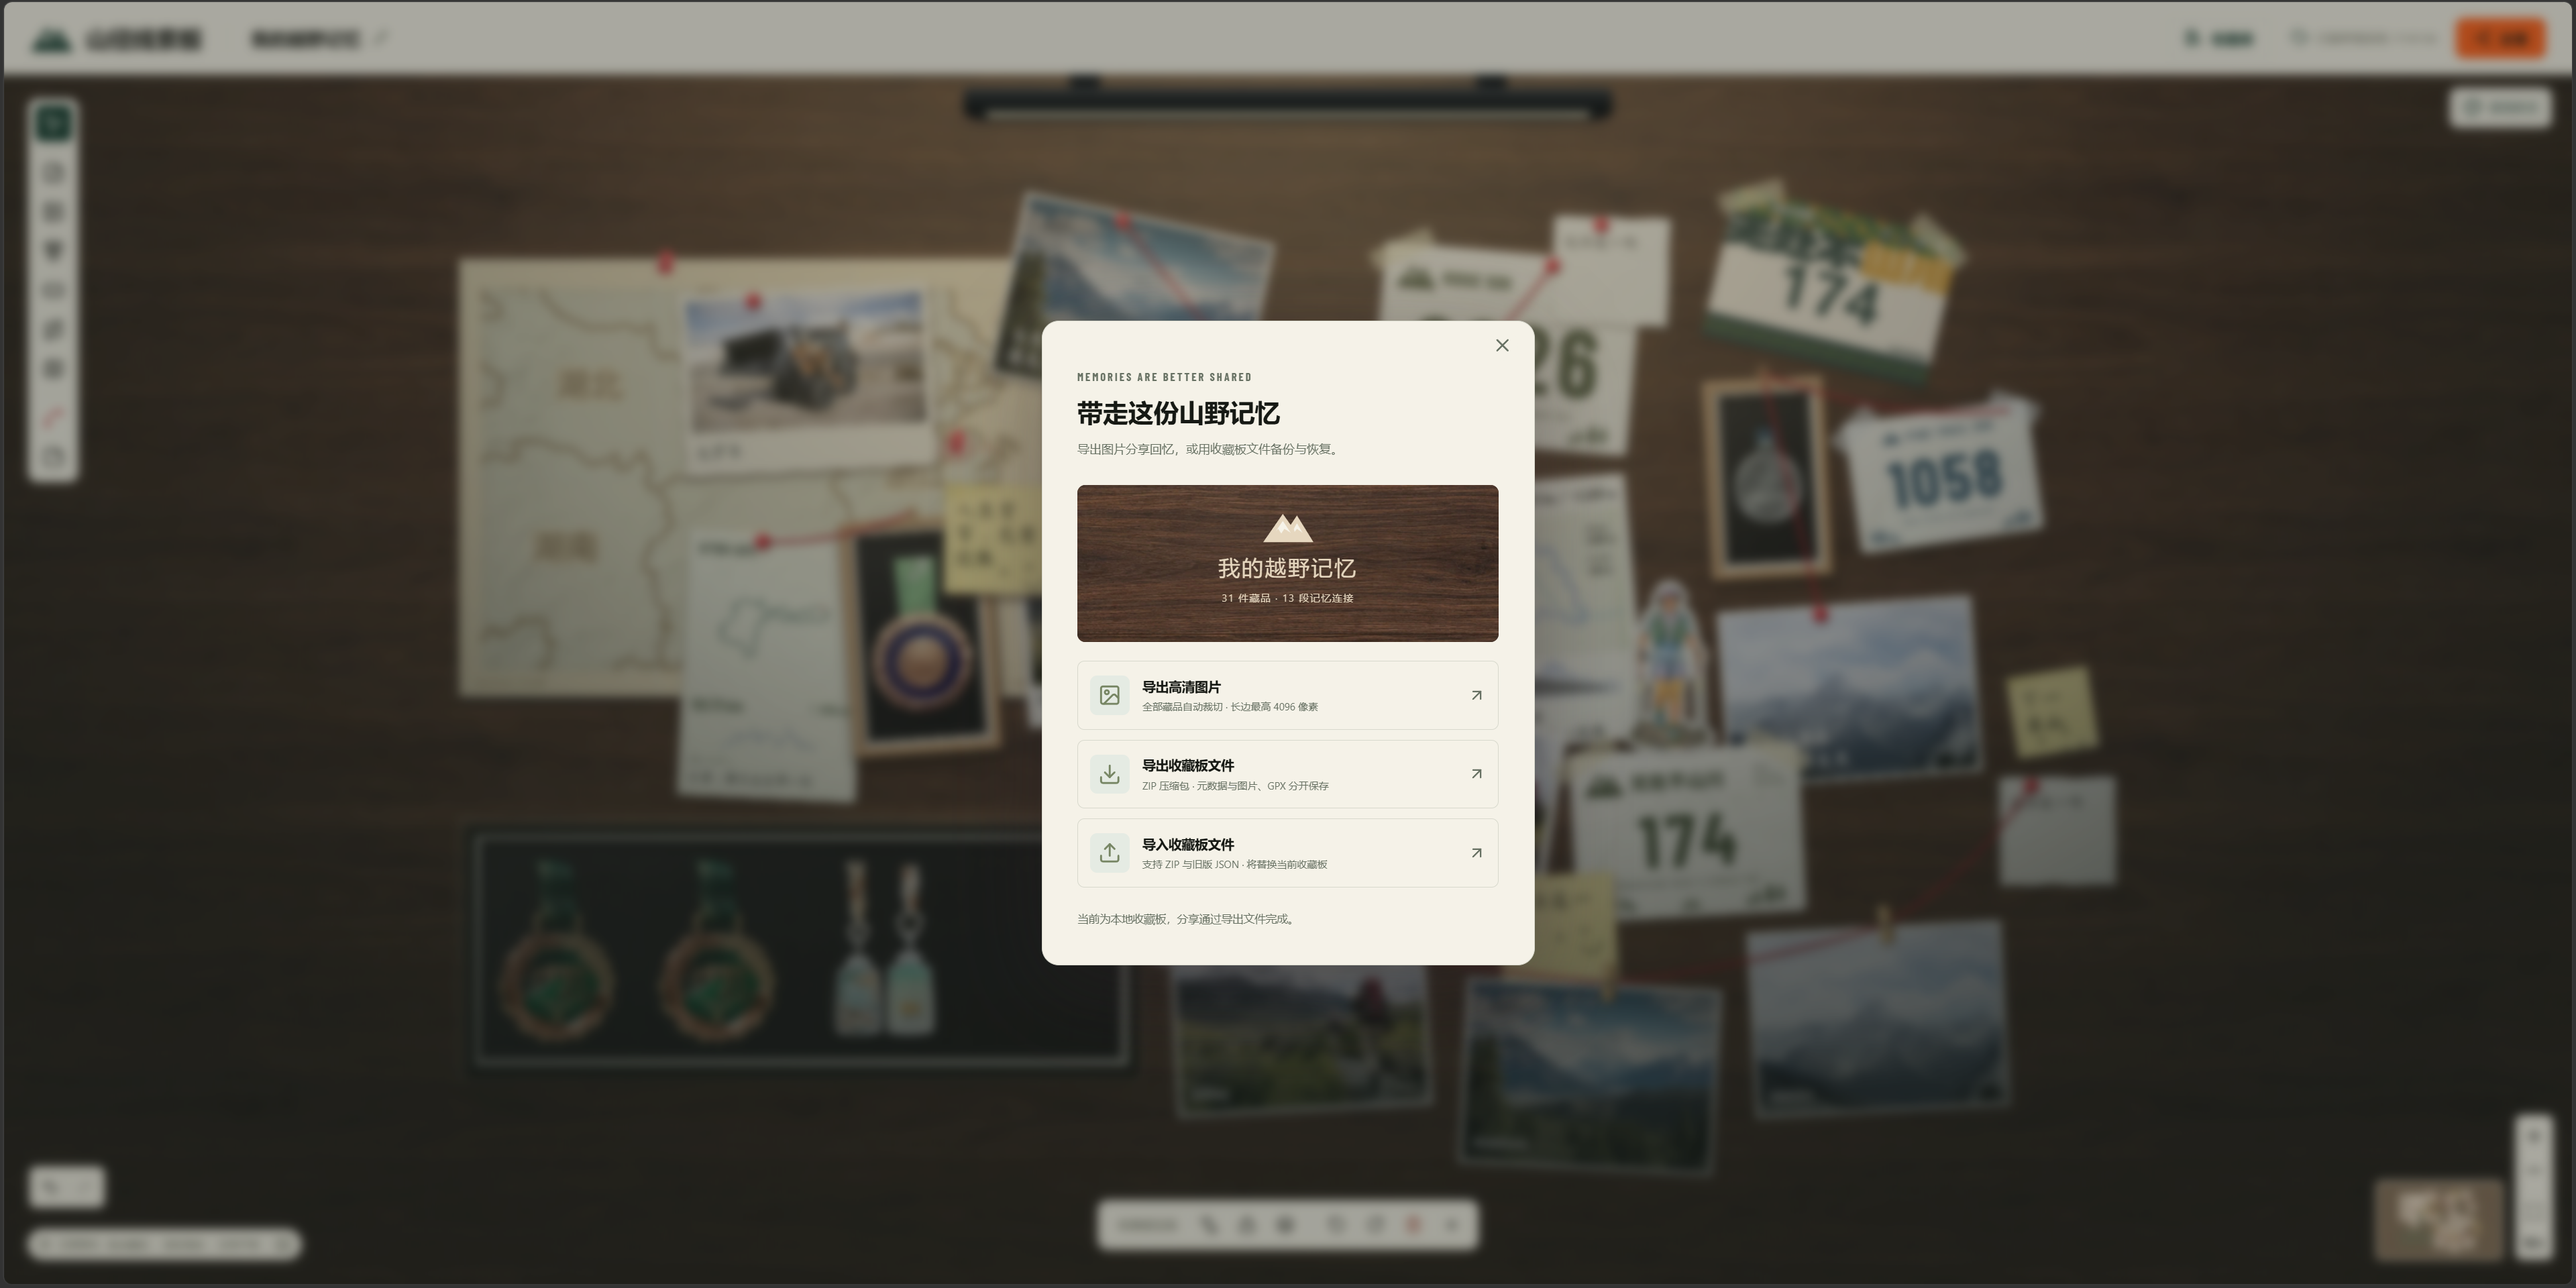
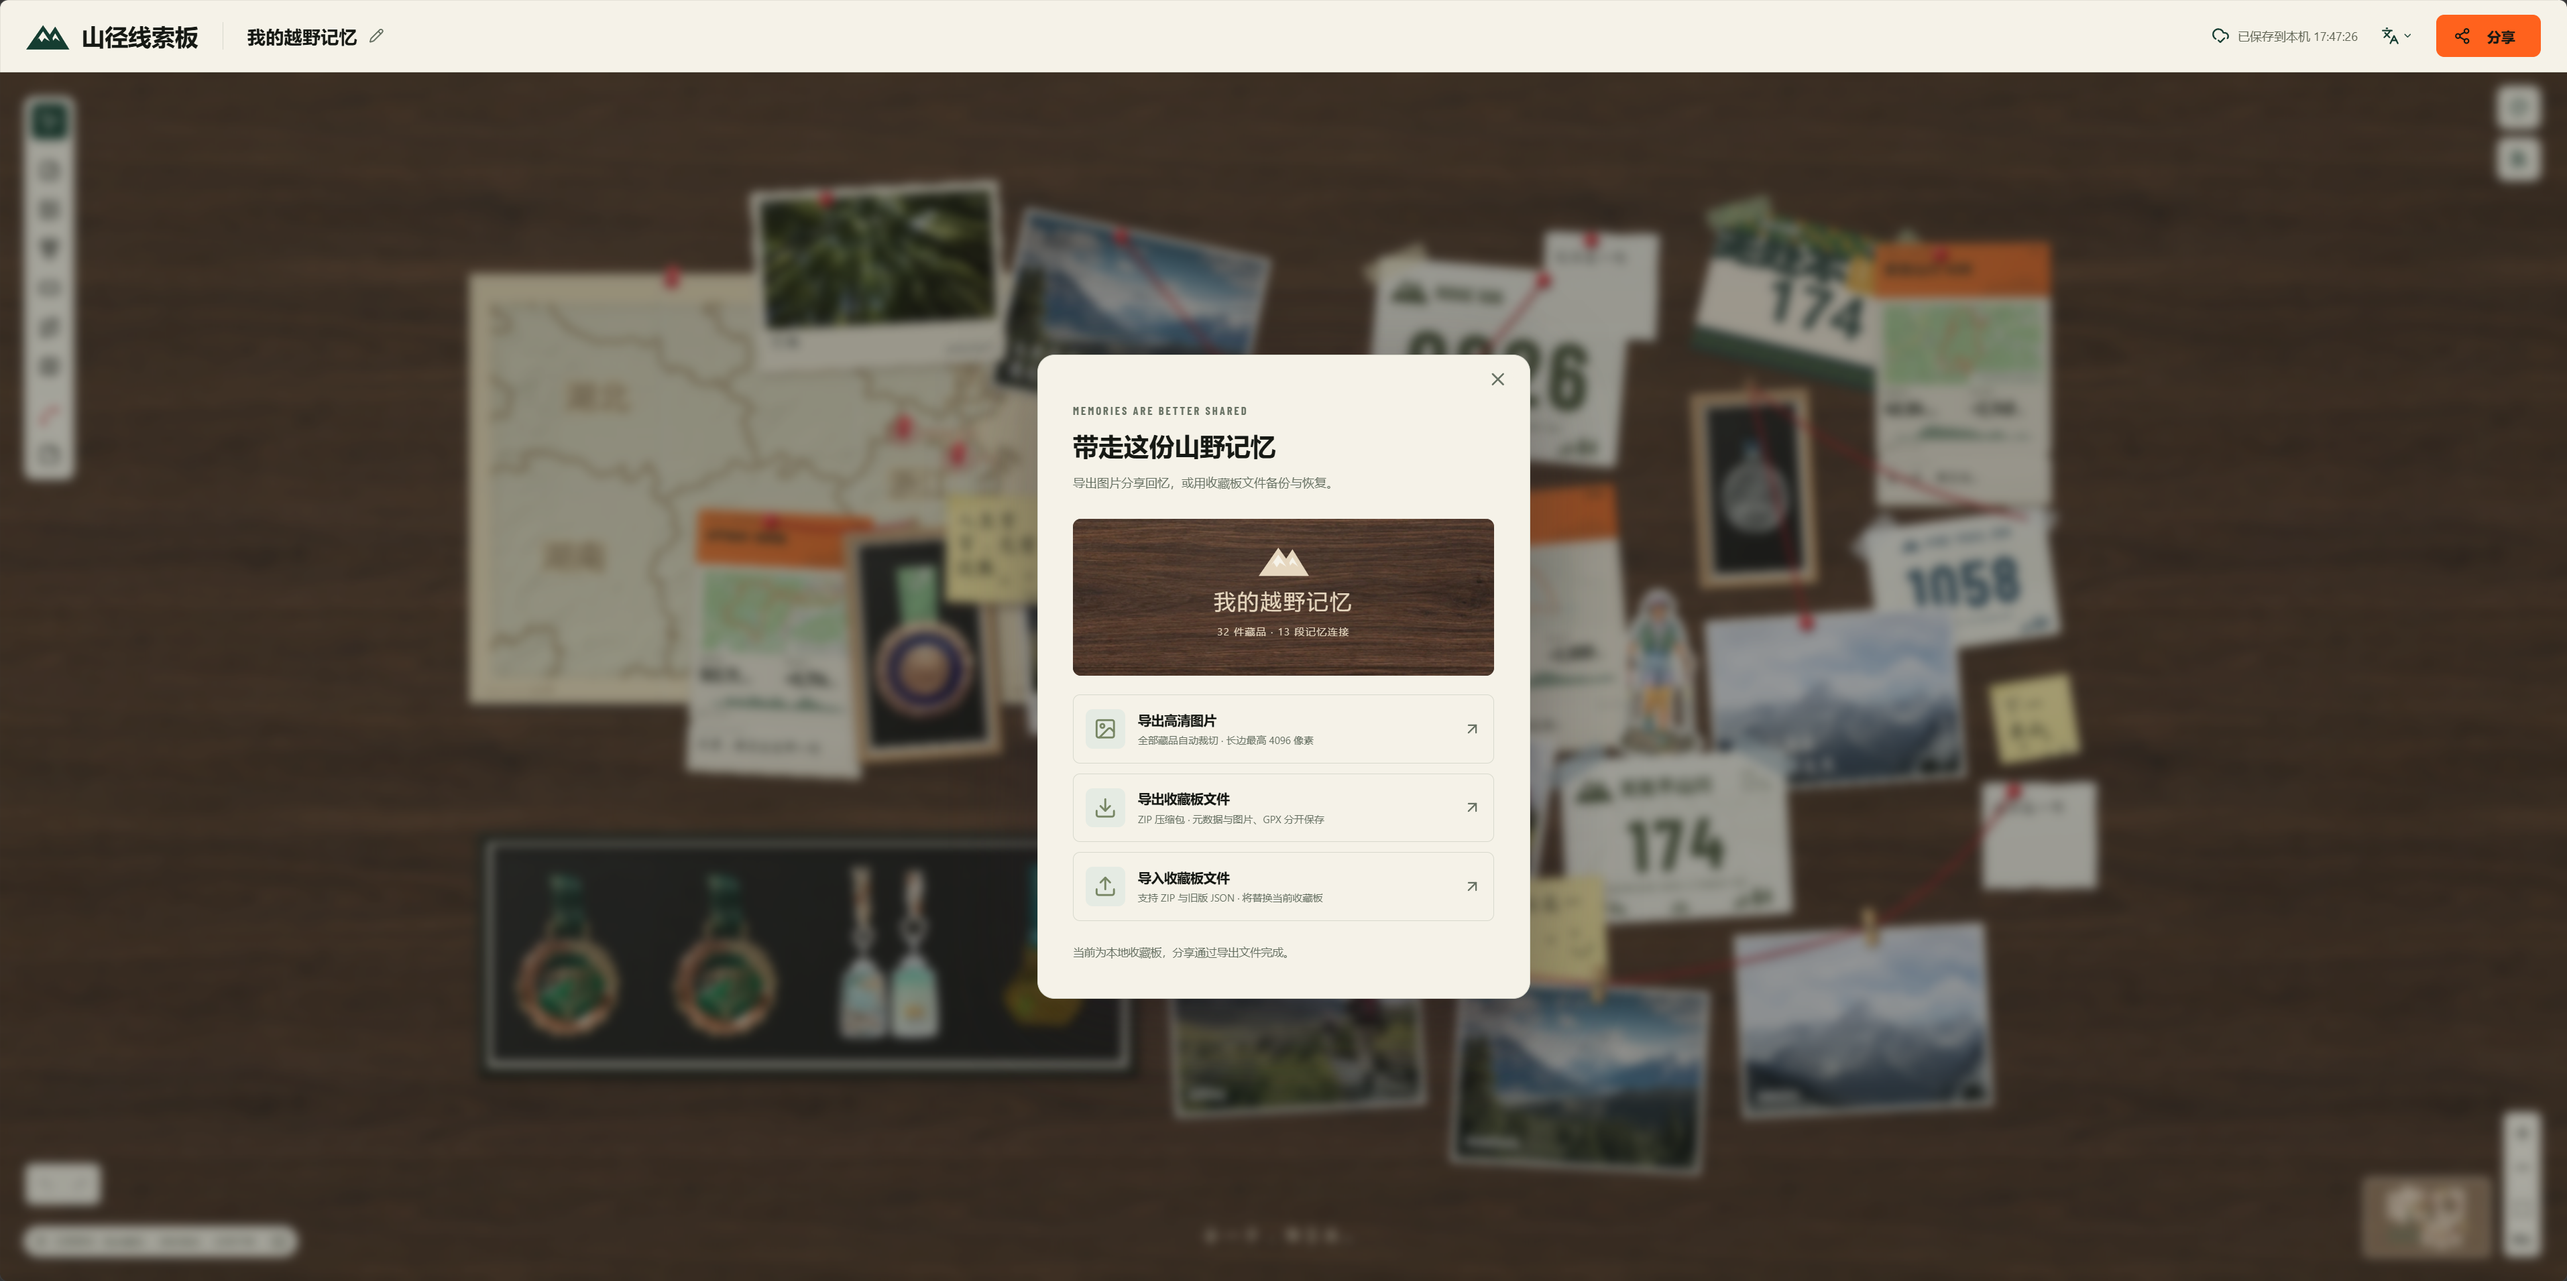
[TAG] 发布v0.0.6版本

diff --git a/README.en.md b/README.en.md
@@ -7,7 +7,7 @@
   <img alt="React" src="https://img.shields.io/badge/React-20232A?logo=react&logoColor=61DAFB" />
   <img alt="TypeScript" src="https://img.shields.io/badge/TypeScript-3178C6?logo=typescript&logoColor=white" />
   <img alt="Vite" src="https://img.shields.io/badge/Vite-646CFF?logo=vite&logoColor=white" />
-  <img alt="Version 0.0.1" src="https://img.shields.io/badge/version-0.0.5-6B7D53" />
+  <img alt="Version 0.0.1" src="https://img.shields.io/badge/version-0.0.6-6B7D53" />
   <a href="LICENSE"><img alt="License: AGPL v3" src="https://img.shields.io/badge/License-AGPL_v3-blue" /></a>
 </p>
 

diff --git a/README.md b/README.md
@@ -7,7 +7,7 @@
   <img alt="React" src="https://img.shields.io/badge/React-20232A?logo=react&logoColor=61DAFB" />
   <img alt="TypeScript" src="https://img.shields.io/badge/TypeScript-3178C6?logo=typescript&logoColor=white" />
   <img alt="Vite" src="https://img.shields.io/badge/Vite-646CFF?logo=vite&logoColor=white" />
-  <img alt="Version 0.0.1" src="https://img.shields.io/badge/version-0.0.5-6B7D53" />
+  <img alt="Version 0.0.1" src="https://img.shields.io/badge/version-0.0.6-6B7D53" />
   <a href="LICENSE"><img alt="License: AGPL v3" src="https://img.shields.io/badge/License-AGPL_v3-blue" /></a>
 </p>
 
